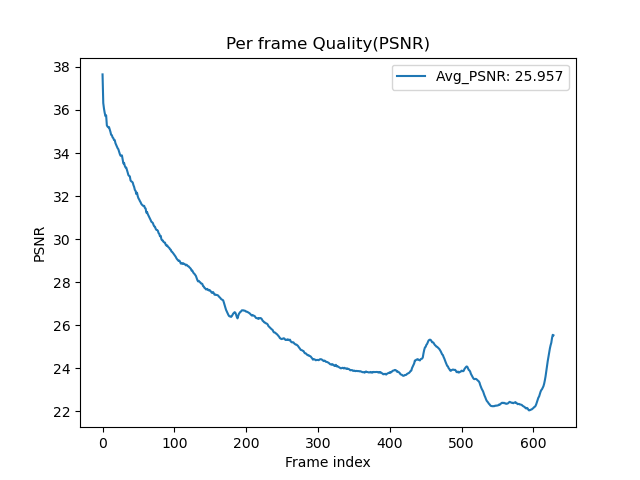
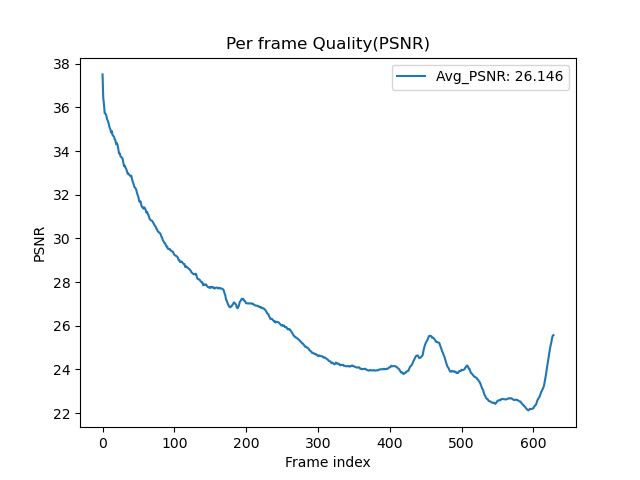
docs(lab4): add result images

diff --git a/lab4/Result.md b/lab4/Result.md
@@ -2,45 +2,117 @@
 
 ## Test for different KL annealing strategy
 
-### Cyclical 
+|                         PSNR                          |
+| :---------------------------------------------------: |
+| ![diff strategy psnr](img/diff_strategy/psnr_val.png) |
+
+|                          Loss                           |
+| :-----------------------------------------------------: |
+| ![diff strategy loss](img/diff_strategy/train_loss.png) |
+
+|                       Beta                        |                       TFR                       |
+| :-----------------------------------------------: | :---------------------------------------------: |
+| ![diff strategy beta](img/diff_strategy/beta.png) | ![diff strategy tfr](img/diff_strategy/tfr.png) |
+
+### Cyclical
+
 (gpu7-tmux0) tensorboard: Cyclical-tfr_0.0_10_0.1
+Val PSNR: 26.14582061767578
+
+> Note: `w/o wandb` `old version`
+
+![PSNR_Cyclical-tfr_0.0_10_0.1.png](img/Cyclical__tfr-0.0-10-0.1/PSNR_Cyclical-tfr_0.0_10_0.1.png)
+
 ```bash
 python Trainer.py --DR ../dataset --save_root ../saved_models/Cyclical --lr 0.0001 --num_epoch 200 --tfr 0 --kl_anneal_type Cyclical --kl_anneal_ratio 0.5 --wandb --device cuda:3
 ```
 
 ### Monotonic
+
 (gpu7-tmux1) wandb: Syncing run wandering-snowflake-7
-(gpu4) Monotonic_0.5-tfr_0.0_10_0.1-20240806-181938
+
+> Note: `old version`
+
+Val PSNR: 25.5565128326416
+
+![PSNR_wandering-snowflake-7_s1lvrqi3.png](img/Monotonic__tfr-0.0-10-0.1__wandering-snowflake-7/PSNR_wandering-snowflake-7_s1lvrqi3.png)
+
 ```bash
 python Trainer.py --DR ../dataset --save_root ../saved_models/Monotonic --lr 0.0001 --num_epoch 200 --tfr 0 --kl_anneal_type Monotonic --kl_anneal_ratio 0.5 --wandb --device cuda:3
 ```
 
 ### None
+
 (gpu4) wandb: Syncing run still-night-10
+
+> Note: `old version`
+
+Val PSNR: 34.07182693481445
+Test PSNR: 31.61894
+
+![PSNR_still-night-10_2do9gnvx.png](img/None__tfr-0.0-10-0.1__still-night-10/PSNR_still-night-10_2do9gnvx.png)
+
 ```bash
 python Trainer.py --DR ../dataset --save_root ../saved_models/Without --lr 0.0001 --num_epoch 200 --tfr 0 --kl_anneal_type None --kl_anneal_ratio 0.5 --wandb --device cuda:1
 ```
 
+(gpu4-tmux0) wandb: Syncing run wild-river-27
+
+```bash
+python Trainer.py --DR ../dataset --save_root ../saved_models/Without/tfr0 --lr 0.0001 --num_epoch 400 --tfr 0 --kl_anneal_type None --kl_anneal_ratio 0.5 --wandb --device cuda:1
+```
+
 ## Test for different teacher forcing ratio
+
+|                       Cyclical Train Loss                        |
+| :--------------------------------------------------------------: |
+| ![Cyclical_loss_train.png](img/diff_tfr/Cyclical_loss_train.png) |
+
+|                        Cyclical PSNR                         |
+| :----------------------------------------------------------: |
+| ![Cyclical_psnr_val.png](img/diff_tfr/Cyclical_val_psnr.png) |
+
+|                    Cyclical Beta                     |                    Cyclical TFR                    |
+| :--------------------------------------------------: | :------------------------------------------------: |
+| ![Cyclical_beta.png](img/diff_tfr/Cyclical_Beta.png) | ![Cyclical_tfr.png](img/diff_tfr/Cyclical_TFR.png) |
+
+---
 
 ### tfr = 1, sde = 10, step = 0.1
 
 **Cyclical KL Annealing**
 (gpu7-tmux2) wandb: Syncing run eager-sound-11 ( Cyclical_0.5-tfr_1.0_10_0.1-20240807-033052 )
-Val PSNR: 22.84535026550293
+Val PSNR: 22.758983612060547
 
-![PSNR_eager-sound-11_g0uglg3t.png](img/eager-sound-11/PSNR_eager-sound-11_g0uglg3t.png)
+> Note: `old version`
+
+![PSNR_eager-sound-11_g0uglg3t.png](img/Cyclical__tfr-1.0-10-0.1__eager-sound-11/PSNR_eager-sound-11_g0uglg3t.png)
+
 ```bash
 python Trainer.py --DR ../dataset --save_root ../saved_models/Cyclical/tfr1 --lr 0.0001 --num_epoch 100 --tfr 1 --kl_anneal_type Cyclical --kl_anneal_ratio 0.5 --wandb --device cuda:7
 ```
 
 **Monotonic KL Annealing**
+(gpu7-tmux0) wandb: Syncing run hearty-armadillo-24
+
+> Note: `latest version`
+
+Val PSNR: 26.06894874572754
+
+![PSNR_hearty-armadillo-24_bwy6vhj4.png](img/Monotonic__tfr-1.0-10-0.1__hearty-armadillo-24/PSNR_hearty-armadillo-24_bwy6vhj4.png)
 
 ```bash
 python Trainer.py --DR ../dataset --save_root ../saved_models/Monotonic/tfr1 --lr 0.0001 --num_epoch 100 --tfr 1 --kl_anneal_type Monotonic --kl_anneal_ratio 0.5 --wandb --device cuda:3
 ```
 
 **Without KL Annealing**
+(gpu4-tumx1) wandb: Syncing run peach-cosmos-23
+
+> Note: `latest version`
+
+Val PSNR: 20.617340087890625
+
+![PSNR_per_frame_xo3b3zib.png](img/None__tfr-1.0-10-0.1__peach-cosmos-23/PSNR_per_frame_xo3b3zib.png)
 
 ```bash
 python Trainer.py --DR ../dataset --save_root ../saved_models/Without/tfr1 --lr 0.0001 --num_epoch 100 --tfr 1 --kl_anneal_type None --kl_anneal_ratio 0.5 --wandb --device cuda:7
@@ -53,22 +125,39 @@ python Trainer.py --DR ../dataset --save_root ../saved_models/Without/tfr1 --lr 
 **Cyclical KL Annealing**
 
 (vonernue) wandb: Syncing run decent-wind-9
-Val PSNR: 28.146825790405273
+Val PSNR: 28.181432723999023
 Test PSNR: 26.75431
 
-![PSNR_per_frame_uf6y1zlj.png](img/decent-wind-9/PSNR_decent-wind-9_uf6y1zlj.png)
+> Note: `old version` `resume`
+
+![PSNR_per_frame_uf6y1zlj.png](img/Cyclical__tfr-0.5-10-0.05__decent-wind-9/PSNR_decent-wind-9_uf6y1zlj.png)
+
 ```bash
 python Trainer.py --DR ../dataset --save_root ../saved_models/Cyclical/tfr05 --lr 0.0001 --num_epoch 100 --tfr 0.5 --tfr_d_step 0.05 --kl_anneal_type Cyclical --kl_anneal_ratio 0.5 --wandb --device cuda:3
 ```
 
 **Monotonic KL Annealing**
+(gpu7-tmux3) wandb: Syncing run fearless-monkey-21
+
+> Note: `latest version`
+
+Val PSNR: 25.91168785095215
+
+![PSNR_fearless-monkey-21_2eth3fv6.png](img/Monotonic__tfr-0.5-10-0.05__fearless-monkey-21/PSNR_fearless-monkey-21_2eth3fv6.png)
 
 ```bash
-python Trainer.py --DR ../dataset --save_root ../saved_models/Monotonic/tfr05 --lr 0.0001 --num_epoch 100 --tfr 0.5 --tfr_d_step 0.05 --kl_anneal_type Monotonic --kl_anneal_ratio 0.5 --wandb --device cuda:3
+python Trainer.py --DR ../dataset --save_root ../saved_models/Monotonic/tfr05 --lr 0.0001 --num_epoch 100 --tfr 0.5 --tfr_d_step 0.05 --kl_anneal_type Monotonic --kl_anneal_ratio 0.5 --wandb --device cuda:4
 ```
 
 **Without KL Annealing**
-(gpu7-tmux2) wandb: Syncing run earnest-shape-19
+(gpu7-tmux2) wandb: Syncing run ancient-voice-22
+
+> Note: `latest version`
+
+Val PSNR: 20.92759132385254
+
+![PSNR_ancient-voice-22_fbtsay31.png](img/None__tfr-0.5-10-0.05_ancient-voice-22/PSNR_ancient-voice-22_fbtsay31.png)
+
 ```bash
 python Trainer.py --DR ../dataset --save_root ../saved_models/Without/tfr05 --lr 0.0001 --num_epoch 100 --tfr 0.5 --tfr_d_step 0.05 --kl_anneal_type None --kl_anneal_ratio 0.5 --wandb --device cuda:7
 ```
@@ -76,8 +165,16 @@ python Trainer.py --DR ../dataset --save_root ../saved_models/Without/tfr05 --lr
 ---
 
 ### tfr = 0
+
 **Cyclical KL Annealing**
 (dlp) wandb: Syncing run glorious-sun-6
+
+> Note: `old version`
+
+Val PSNR: 22.769935607910156
+
+![PSNR_glorious-sun-6_u2vg0sx9.png](img/Cyclical__tfr-0.0-10-0.1__glorious-sun-6/PSNR_glorious-sun-6_u2vg0sx9.png)
+
 ```bash
 python Trainer.py --DR ../dataset --save_root ../saved_models/Cyclical/tfr0 --lr 0.0001 --num_epoch 100 --tfr 0 --kl_anneal_type Cyclical --kl_anneal_ratio 0.5 --wandb --device cuda:3
 ```
@@ -93,4 +190,3 @@ python Trainer.py --DR ../dataset --save_root ../saved_models/Monotonic/tfr0 --l
 ```bash
 python Trainer.py --DR ../dataset --save_root ../saved_models/Without/tfr0 --lr 0.0001 --num_epoch 100 --tfr 0 --kl_anneal_type None --kl_anneal_ratio 0.5 --wandb --device cuda:3
 ```
-
